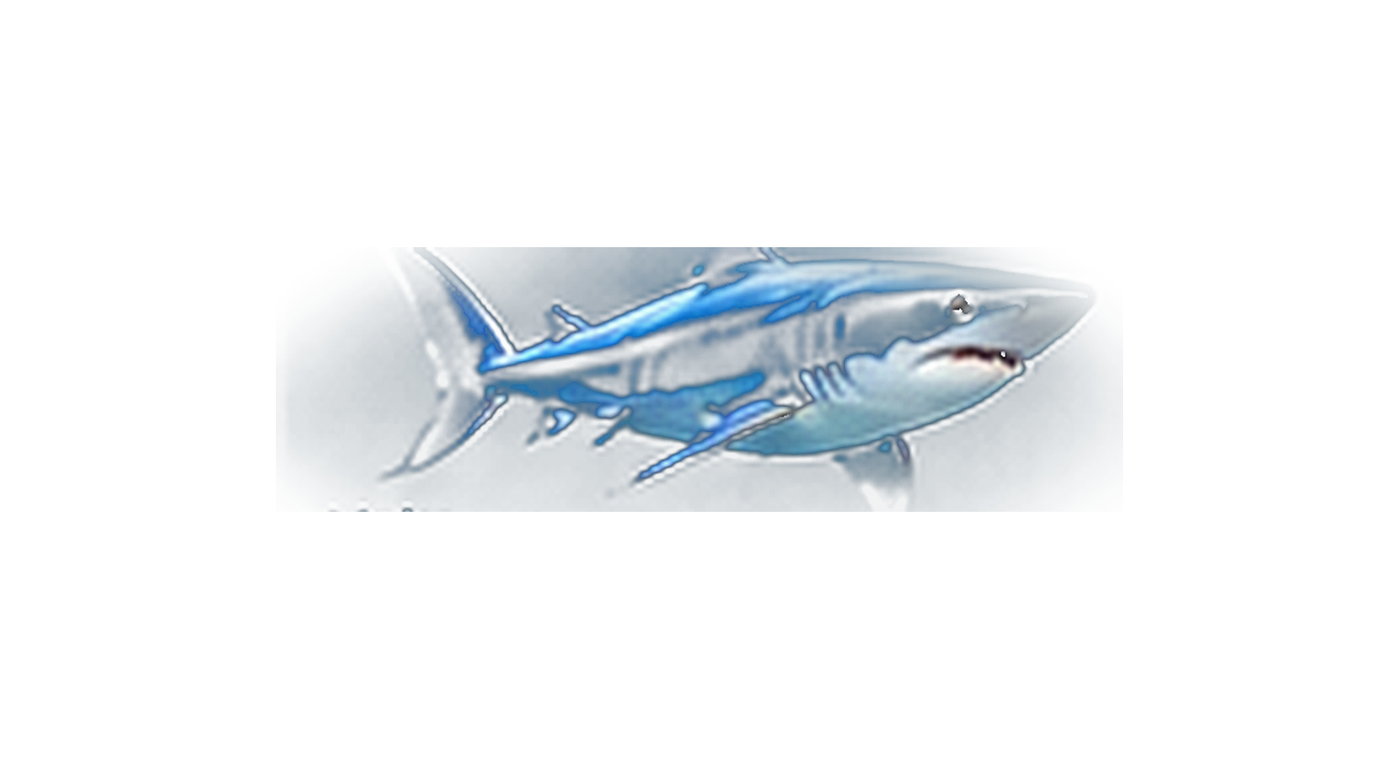
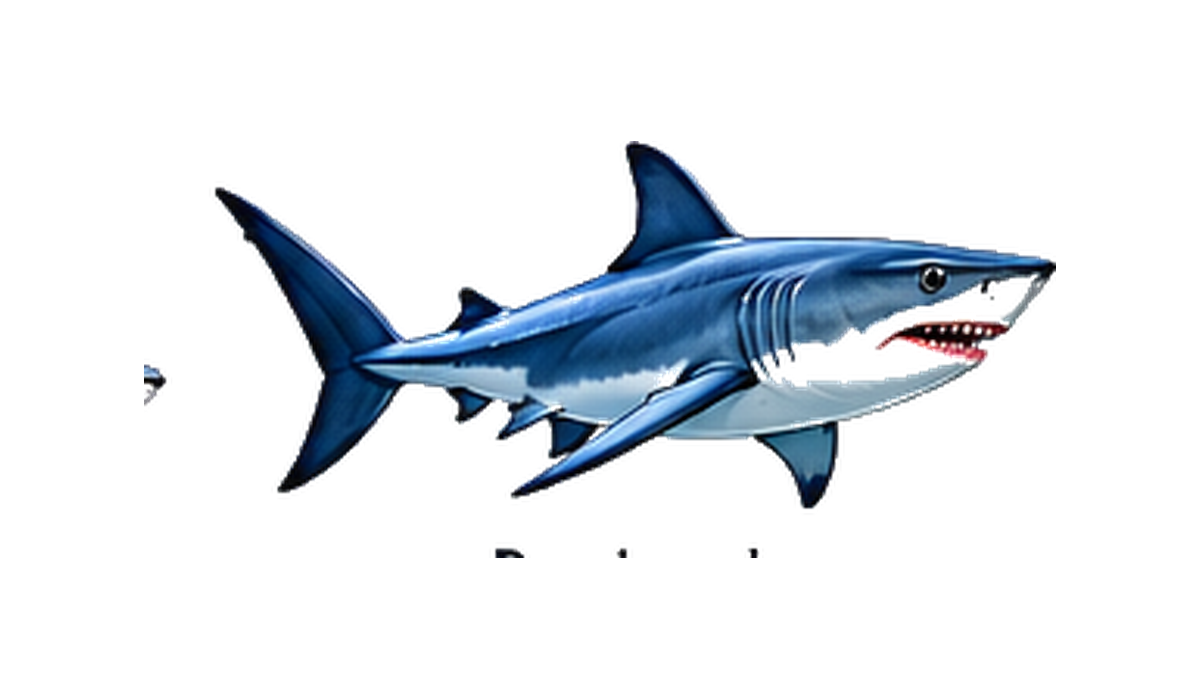
Add files via upload

diff --git a/app.js b/app.js
@@ -1,6 +1,6 @@
 function v7AquariumMood(){let h=new Date().getHours(),f=h>=7&&h<18?"aquarium-day.webp":h>=18&&h<21?"aquarium-evening.webp":"aquarium-night.webp";document.documentElement.style.setProperty("--aquarium-bg",`url("${f}")`)}v7AquariumMood();const SHARKS=[{"id": "grey", "name": "Requin gris", "rarity": "Commun", "cost": 0, "unlock": "Départ", "img": "shark-grey.png"}, {"id": "blacktip", "name": "Requin pointe noire", "rarity": "Commun", "cost": 350, "unlock": "Boutique", "img": "shark-blacktip.png"}, {"id": "whitetip", "name": "Requin pointe blanche", "rarity": "Commun", "cost": 450, "unlock": "Boutique", "img": "shark-whitetip.png"}, {"id": "blue", "name": "Requin bleu", "rarity": "Commun", "cost": 600, "unlock": "Boutique", "img": "shark-blue.png"}, {"id": "nurse", "name": "Requin nourrice", "rarity": "Commun", "cost": 700, "unlock": "Boutique", "img": "shark-nurse.png"}, {"id": "lemon", "name": "Requin citron", "rarity": "Commun", "cost": 800, "unlock": "Boutique", "img": "shark-lemon.png"}, {"id": "reef", "name": "Requin corail", "rarity": "Commun", "cost": 900, "unlock": "Boutique", "img": "shark-reef.png"}, {"id": "zebra", "name": "Requin zèbre", "rarity": "Rare", "cost": 1400, "unlock": "10 activités", "img": "shark-zebra.png"}, {"id": "thresher", "name": "Requin-renard", "rarity": "Rare", "cost": 1800, "unlock": "25 activités", "img": "shark-thresher.png"}, {"id": "mako", "name": "Requin mako", "rarity": "Rare", "cost": 2200, "unlock": "Niveau 10", "img": "shark-mako.png"}, {"id": "bull", "name": "Requin bouledogue", "rarity": "Rare", "cost": 2600, "unlock": "Boutique", "img": "shark-bull.png"}, {"id": "hammer", "name": "Requin marteau", "rarity": "Rare", "cost": 3000, "unlock": "10 objectifs atteints", "img": "shark-hammer.png"}, {"id": "wobbegong", "name": "Requin-tapis", "rarity": "Rare", "cost": 3200, "unlock": "Boutique", "img": "shark-wobbegong.png"}, {"id": "saw", "name": "Requin-scie", "rarity": "Rare", "cost": 3400, "unlock": "Boutique", "img": "shark-saw.png"}, {"id": "goblin", "name": "Requin-lutin", "rarity": "Épique", "cost": 5000, "unlock": "50 activités", "img": "shark-goblin.png"}, {"id": "frilled", "name": "Requin-lézard", "rarity": "Épique", "cost": 5500, "unlock": "Boutique", "img": "shark-frilled.png"}, {"id": "tiger", "name": "Requin tigre", "rarity": "Épique", "cost": 6000, "unlock": "Niveau 20", "img": "shark-tiger.png"}, {"id": "greenland", "name": "Requin du Groenland", "rarity": "Épique", "cost": 6500, "unlock": "100 activités", "img": "shark-greenland.png"}, {"id": "sixgill", "name": "Requin griset", "rarity": "Épique", "cost": 7000, "unlock": "Boutique", "img": "shark-sixgill.png"}, {"id": "angel", "name": "Requin ange", "rarity": "Épique", "cost": 7200, "unlock": "Boutique", "img": "shark-angel.png"}, {"id": "great-hammer", "name": "Grand marteau", "rarity": "Légendaire", "cost": 10000, "unlock": "Niveau 30", "img": "shark-great-hammer.png"}, {"id": "great-white", "name": "Grand requin blanc", "rarity": "Légendaire", "cost": 12000, "unlock": "Niveau 40", "img": "shark-great-white.png"}, {"id": "basking", "name": "Requin pèlerin", "rarity": "Légendaire", "cost": 14000, "unlock": "200 activités", "img": "shark-basking.png"}, {"id": "whale", "name": "Requin-baleine", "rarity": "Légendaire", "cost": 16000, "unlock": "Niveau 50", "img": "shark-whale.png"}, {"id": "megalodon", "name": "Mégalodon", "rarity": "Mythique", "cost": 25000, "unlock": "Collection ultime", "img": "shark-megalodon.png"}];const DECORS=[{"id": "seaweed", "name": "Petite algue", "kind": "plante", "rarity": "Commun", "cost": 30, "img": "decor-seaweed.png"}, {"id": "kelp", "name": "Grande algue", "kind": "plante", "rarity": "Commun", "cost": 80, "img": "decor-kelp.png"}, {"id": "coral-red", "name": "Corail rouge", "kind": "corail", "rarity": "Commun", "cost": 120, "img": "decor-coral-red.png"}, {"id": "anemone", "name": "Anémone", "kind": "corail", "rarity": "Rare", "cost": 150, "img": "decor-anemone.png"}, {"id": "rock", "name": "Rocher volcanique", "kind": "rocher", "rarity": "Rare", "cost": 200, "img": "decor-rock.png"}, {"id": "shell", "name": "Coquillage", "kind": "special", "rarity": "Commun", "cost": 40, "img": "decor-shell.png"}, {"id": "wreck", "name": "Épave ancienne", "kind": "special", "rarity": "Épique", "cost": 800, "img": "decor-wreck.png"}, {"id": "statue", "name": "Statue engloutie", "kind": "special", "rarity": "Épique", "cost": 1200, "img": "decor-statue.png"}, {"id": "chest", "name": "Coffre au trésor", "kind": "special", "rarity": "Légendaire", "cost": 1500, "img": "decor-chest.png"}, {"id": "jelly", "name": "Méduse lumineuse", "kind": "animal", "rarity": "Épique", "cost": 900, "img": "decor-jelly.png"}];const $=s=>document.querySelector(s),$$=s=>[...document.querySelectorAll(s)],DAY=86400000,EM={sport:"🏃",maison:"🧹",sante:"❤",perso:"🌱"};const iso=d=>{d=new Date(d);return `${d.getFullYear()}-${String(d.getMonth()+1).padStart(2,"0")}-${String(d.getDate()).padStart(2,"0")}`},today=()=>iso(new Date());
-const blank=()=>({version:"9.0",xp:0,teeth:100,goals:[],activities:[],ownedSharks:["grey"],activeShark:"grey",aquariumSharks:["grey"],inventory:{seaweed:3,kelp:1,"coral-red":2,rock:2,shell:2},placed:[{id:"p1",decor:"seaweed",x:14,y:82},{id:"p2",decor:"rock",x:38,y:88},{id:"p3",decor:"coral-red",x:72,y:83},{id:"p4",decor:"shell",x:87,y:91}],tutorial:false});let old=JSON.parse(localStorage.getItem("sharkHabitsV811")||"null")||JSON.parse(localStorage.getItem("sharkHabitsV81")||"null")||JSON.parse(localStorage.getItem("sharkHabitsV8")||"null")||JSON.parse(localStorage.getItem("sharkHabitsV7")||"null")||JSON.parse(localStorage.getItem("sharkHabitsV6")||"null")||JSON.parse(localStorage.getItem("sharkHabitsV5")||"null"),data=JSON.parse(localStorage.getItem("sharkHabitsV9")||"null")||blank();if(old&&!localStorage.getItem("sharkHabitsV9")){data={...blank(),...old,version:"9.0"}}let trackTab="today",rar="all",shopMode="decor",selectedDecor=null,selectedPlaced=null,history=[];
-function save(){localStorage.setItem("sharkHabitsV9",JSON.stringify(data))}function level(){return Math.floor(data.xp/250)+1}function monday(d=new Date()){d=new Date(d);let n=(d.getDay()+6)%7;d.setHours(0,0,0,0);d.setDate(d.getDate()-n);return d}function bounds(g,d=new Date()){d=new Date(d);let s,e;if(g.repeat==="day"){s=new Date(d);s.setHours(0,0,0,0);e=new Date(s.getTime()+DAY)}else if(g.repeat==="month"){s=new Date(d.getFullYear(),d.getMonth(),1);e=new Date(d.getFullYear(),d.getMonth()+1,1)}else{s=monday(d);e=new Date(s.getTime()+7*DAY)}return[s,e]}function acts(g){return data.activities.filter(a=>a.goal===g.id)}function val(g,d=new Date()){let a=acts(g);if(g.type==="metric"){a.sort((x,y)=>x.date.localeCompare(y.date));return a.length?a[a.length-1].value:(g.baseline||0)}if(["long","once"].includes(g.type))return a.reduce((s,x)=>s+x.value,0);let[s,e]=bounds(g,d);return a.filter(x=>{let q=new Date(x.date+"T12:00");return q>=s&&q<e}).reduce((s,x)=>s+x.value,0)}function pct(g,v=val(g)){if(g.type==="metric"){let t=Math.abs((g.baseline||v)-g.target),d=Math.abs((g.baseline||v)-v);return Math.max(0,Math.min(100,t?d/t*100:100))}return Math.min(100,g.target?v/g.target*100:0)}function achieved(){return data.goals.filter(g=>pct(g)>=100).length}function unlocked(s){let a=data.activities.length,l=level();return data.ownedSharks.includes(s.id)||s.unlock==="Départ"||(s.unlock==="10 activités"&&a>=10)||(s.unlock==="25 activités"&&a>=25)||(s.unlock==="50 activités"&&a>=50)||(s.unlock==="100 activités"&&a>=100)||(s.unlock==="200 activités"&&a>=200)||(s.unlock==="Niveau 10"&&l>=10)||(s.unlock==="Niveau 20"&&l>=20)||(s.unlock==="Niveau 30"&&l>=30)||(s.unlock==="Niveau 40"&&l>=40)||(s.unlock==="Niveau 50"&&l>=50)||(s.unlock==="10 objectifs atteints"&&achieved()>=10)}function syncUnlocks(){SHARKS.forEach(s=>{if(unlocked(s)&&s.unlock!=="Boutique"&&s.unlock!=="Collection ultime"&&!data.ownedSharks.includes(s.id))data.ownedSharks.push(s.id)})}function maxSharks(){return Math.min(5,1+Math.floor(level()/5))}function used(id){return data.placed.filter(p=>p.decor===id).length}function available(id){return Math.max(0,(data.inventory[id]||0)-used(id))}function empty(t,i="🌊"){return `<div class="card empty"><div class="emptyIcon">${i}</div><b>${t}</b></div>`}function goalCard(g,d=new Date()){let v=val(g,d),p=pct(g,v);return `<div class="goalcard"><div class="goalTop"><span class="goalIcon">${EM[g.category]||"🎯"}</span><div class="goalName">${g.name}<div class="muted">${g.repeat==="day"?"Chaque jour":g.repeat==="week"?"Chaque semaine":g.repeat==="month"?"Chaque mois":"Objectif"}</div></div><button class="primary small add" data-id="${g.id}">＋</button></div><div class="progressrow"><span>${+v.toFixed(1)} ${g.unit||""} / ${g.target} ${g.unit||""}</span><b>${Math.round(p)}%</b></div><div class="progress"><i style="width:${p}%"></i></div><div class="actions"><button class="textbtn edit" data-id="${g.id}">Modifier</button><button class="textbtn archive" data-id="${g.id}">${g.archived?"Réactiver":"Archiver"}</button><button class="danger del" data-id="${g.id}">Supprimer</button></div></div>`}
+const blank=()=>({version:"10.0",xp:0,teeth:100,goals:[],activities:[],ownedSharks:["grey"],activeShark:"grey",aquariumSharks:["grey"],inventory:{seaweed:3,kelp:1,"coral-red":2,rock:2,shell:2},placed:[{id:"p1",decor:"seaweed",x:14,y:82},{id:"p2",decor:"rock",x:38,y:88},{id:"p3",decor:"coral-red",x:72,y:83},{id:"p4",decor:"shell",x:87,y:91}],tutorial:false});let old=JSON.parse(localStorage.getItem("sharkHabitsV91")||"null")||JSON.parse(localStorage.getItem("sharkHabitsV9")||"null")||JSON.parse(localStorage.getItem("sharkHabitsV811")||"null")||JSON.parse(localStorage.getItem("sharkHabitsV81")||"null")||JSON.parse(localStorage.getItem("sharkHabitsV8")||"null")||JSON.parse(localStorage.getItem("sharkHabitsV7")||"null")||JSON.parse(localStorage.getItem("sharkHabitsV6")||"null")||JSON.parse(localStorage.getItem("sharkHabitsV5")||"null"),data=JSON.parse(localStorage.getItem("sharkHabitsV10")||"null")||blank();if(old&&!localStorage.getItem("sharkHabitsV10")){data={...blank(),...old,version:"10.0"}}let trackTab="today",rar="all",shopMode="decor",selectedDecor=null,selectedPlaced=null,history=[];
+function save(){localStorage.setItem("sharkHabitsV10",JSON.stringify(data))}function level(){return Math.floor(data.xp/250)+1}function monday(d=new Date()){d=new Date(d);let n=(d.getDay()+6)%7;d.setHours(0,0,0,0);d.setDate(d.getDate()-n);return d}function bounds(g,d=new Date()){d=new Date(d);let s,e;if(g.repeat==="day"){s=new Date(d);s.setHours(0,0,0,0);e=new Date(s.getTime()+DAY)}else if(g.repeat==="month"){s=new Date(d.getFullYear(),d.getMonth(),1);e=new Date(d.getFullYear(),d.getMonth()+1,1)}else{s=monday(d);e=new Date(s.getTime()+7*DAY)}return[s,e]}function acts(g){return data.activities.filter(a=>a.goal===g.id)}function val(g,d=new Date()){let a=acts(g);if(g.type==="metric"){a.sort((x,y)=>x.date.localeCompare(y.date));return a.length?a[a.length-1].value:(g.baseline||0)}if(["long","once"].includes(g.type))return a.reduce((s,x)=>s+x.value,0);let[s,e]=bounds(g,d);return a.filter(x=>{let q=new Date(x.date+"T12:00");return q>=s&&q<e}).reduce((s,x)=>s+x.value,0)}function pct(g,v=val(g)){if(g.type==="metric"){let t=Math.abs((g.baseline||v)-g.target),d=Math.abs((g.baseline||v)-v);return Math.max(0,Math.min(100,t?d/t*100:100))}return Math.min(100,g.target?v/g.target*100:0)}function achieved(){return data.goals.filter(g=>pct(g)>=100).length}function unlocked(s){let a=data.activities.length,l=level();return data.ownedSharks.includes(s.id)||s.unlock==="Départ"||(s.unlock==="10 activités"&&a>=10)||(s.unlock==="25 activités"&&a>=25)||(s.unlock==="50 activités"&&a>=50)||(s.unlock==="100 activités"&&a>=100)||(s.unlock==="200 activités"&&a>=200)||(s.unlock==="Niveau 10"&&l>=10)||(s.unlock==="Niveau 20"&&l>=20)||(s.unlock==="Niveau 30"&&l>=30)||(s.unlock==="Niveau 40"&&l>=40)||(s.unlock==="Niveau 50"&&l>=50)||(s.unlock==="10 objectifs atteints"&&achieved()>=10)}function syncUnlocks(){SHARKS.forEach(s=>{if(unlocked(s)&&s.unlock!=="Boutique"&&s.unlock!=="Collection ultime"&&!data.ownedSharks.includes(s.id))data.ownedSharks.push(s.id)})}function maxSharks(){return Math.min(5,1+Math.floor(level()/5))}function used(id){return data.placed.filter(p=>p.decor===id).length}function available(id){return Math.max(0,(data.inventory[id]||0)-used(id))}function empty(t,i="🌊"){return `<div class="card empty"><div class="emptyIcon">${i}</div><b>${t}</b></div>`}function goalCard(g,d=new Date()){let v=val(g,d),p=pct(g,v);return `<div class="goalcard"><div class="goalTop"><span class="goalIcon">${EM[g.category]||"🎯"}</span><div class="goalName">${g.name}<div class="muted">${g.repeat==="day"?"Chaque jour":g.repeat==="week"?"Chaque semaine":g.repeat==="month"?"Chaque mois":"Objectif"}</div></div><button class="primary small add" data-id="${g.id}">＋</button></div><div class="progressrow"><span>${+v.toFixed(1)} ${g.unit||""} / ${g.target} ${g.unit||""}</span><b>${Math.round(p)}%</b></div><div class="progress"><i style="width:${p}%"></i></div><div class="actions"><button class="textbtn edit" data-id="${g.id}">Modifier</button><button class="textbtn archive" data-id="${g.id}">${g.archived?"Réactiver":"Archiver"}</button><button class="danger del" data-id="${g.id}">Supprimer</button></div></div>`}
 function sprite(s,i,full=false){return `<img class="sharkSprite" src="${s.img}" alt="${s.name}" style="left:${8+(i*22)%65}%;top:${18+(i%3)*22}%;animation-delay:-${i*2}s">`}function decorSprite(p,placed=false){let d=DECORS.find(x=>x.id===p.decor);return d?`<img class="decorSprite ${placed?"placed":""}" data-pid="${p.id}" src="${d.img}" alt="${d.name}" style="left:${p.x}%;top:${p.y}%">`:""}
 function renderOcean(){let ss=data.aquariumSharks.filter(id=>data.ownedSharks.includes(id)).slice(0,maxSharks()).map(id=>SHARKS.find(s=>s.id===id)).filter(Boolean);$("#homeSharks").innerHTML=ss.map((s,i)=>sprite(s,i)).join("");$("#homeDecor").innerHTML=data.placed.slice(0,12).map(p=>decorSprite(p)).join("");$("#aqSharks").innerHTML=ss.map((s,i)=>sprite(s,i,true)).join("");$("#aqDecor").innerHTML=data.placed.map(p=>decorSprite(p,true)).join("");$("#aqLevel").textContent=`Niveau ${level()} · ${ss.length}/${maxSharks()} requins`;renderInventory()}
 function render(){syncUnlocks();save();$("#level").textContent=`Niveau ${level()}`;$("#teeth").textContent=data.teeth;$("#shopTeeth").textContent=data.teeth;renderOcean();let active=data.goals.filter(g=>!g.archived),tod=active.filter(g=>g.repeat==="day"||g.repeat==="week");$("#todayList").innerHTML=tod.map(goalCard).join("")||empty("Rien à suivre aujourd'hui","☀");$("#todayDone").textContent=`${tod.filter(g=>pct(g)>=100).length} / ${tod.length}`;$("#streak").textContent=`${calcStreak()} jour${calcStreak()>1?"s":""}`;renderTracking();renderStats();renderSharks();renderShop();bind()}

diff --git a/sw.js b/sw.js
@@ -1,1 +1,1 @@
-const C='sharkhabits-v9.0.0-full-sharks';const A=["./", "index.html", "style.css", "app.js", "manifest.json", "icon.svg", "aquarium-day.webp", "aquarium-evening.webp", "aquarium-night.webp", "shark-grey.png", "shark-blacktip.png", "shark-whitetip.png", "shark-blue.png", "shark-nurse.png", "shark-lemon.png", "shark-reef.png", "shark-zebra.png", "shark-thresher.png", "shark-mako.png", "shark-bull.png", "shark-hammer.png", "shark-wobbegong.png", "shark-saw.png", "shark-goblin.png", "shark-frilled.png", "shark-tiger.png", "shark-greenland.png", "shark-sixgill.png", "shark-angel.png", "shark-great-hammer.png", "shark-great-white.png", "shark-basking.png", "shark-whale.png", "shark-megalodon.png", "decor-seaweed.png", "decor-kelp.png", "decor-coral-red.png", "decor-anemone.png", "decor-rock.png", "decor-shell.png", "decor-wreck.png", "decor-statue.png", "decor-chest.png", "decor-jelly.png"];self.addEventListener('install',e=>e.waitUntil(caches.open(C).then(c=>c.addAll(A)).then(()=>self.skipWaiting())));self.addEventListener('activate',e=>e.waitUntil(caches.keys().then(k=>Promise.all(k.filter(x=>x!==C).map(x=>caches.delete(x)))).then(()=>self.clients.claim())));self.addEventListener('fetch',e=>{if(e.request.method!=='GET')return;e.respondWith(fetch(e.request).then(r=>{let q=r.clone();caches.open(C).then(c=>c.put(e.request,q));return r}).catch(()=>caches.match(e.request)))})
+const C='sharkhabits-v10.0.0-unique-sharks';const A=["./", "index.html", "style.css", "app.js", "manifest.json", "icon.svg", "aquarium-day.webp", "aquarium-evening.webp", "aquarium-night.webp", "shark-grey.png", "shark-blacktip.png", "shark-whitetip.png", "shark-blue.png", "shark-nurse.png", "shark-lemon.png", "shark-reef.png", "shark-zebra.png", "shark-thresher.png", "shark-mako.png", "shark-bull.png", "shark-hammer.png", "shark-wobbegong.png", "shark-saw.png", "shark-goblin.png", "shark-frilled.png", "shark-tiger.png", "shark-greenland.png", "shark-sixgill.png", "shark-angel.png", "shark-great-hammer.png", "shark-great-white.png", "shark-basking.png", "shark-whale.png", "shark-megalodon.png", "decor-seaweed.png", "decor-kelp.png", "decor-coral-red.png", "decor-anemone.png", "decor-rock.png", "decor-shell.png", "decor-wreck.png", "decor-statue.png", "decor-chest.png", "decor-jelly.png"];self.addEventListener('install',e=>e.waitUntil(caches.open(C).then(c=>c.addAll(A)).then(()=>self.skipWaiting())));self.addEventListener('activate',e=>e.waitUntil(caches.keys().then(k=>Promise.all(k.filter(x=>x!==C).map(x=>caches.delete(x)))).then(()=>self.clients.claim())));self.addEventListener('fetch',e=>{if(e.request.method!=='GET')return;e.respondWith(fetch(e.request).then(r=>{let q=r.clone();caches.open(C).then(c=>c.put(e.request,q));return r}).catch(()=>caches.match(e.request)))})

diff --git a/index.html b/index.html
@@ -1,4 +1,4 @@
-<!doctype html><html lang="fr"><head><meta charset="utf-8"><meta name="viewport" content="width=device-width,initial-scale=1,viewport-fit=cover"><meta name="theme-color" content="#03283a"><meta name="apple-mobile-web-app-capable" content="yes"><title>SharkHabits V9.0</title><link rel="manifest" href="manifest.json"><link rel="stylesheet" href="style.css"></head><body><header><div><small>SHARKHABITS <b>V9.0</b></small><h1 id="title">Mon océan</h1></div><button id="settings" class="icon">⚙</button></header><main>
+<!doctype html><html lang="fr"><head><meta charset="utf-8"><meta name="viewport" content="width=device-width,initial-scale=1,viewport-fit=cover"><meta name="theme-color" content="#03283a"><meta name="apple-mobile-web-app-capable" content="yes"><title>SharkHabits V10.0</title><link rel="manifest" href="manifest.json"><link rel="stylesheet" href="style.css"></head><body><header><div><small>SHARKHABITS <b>V10.0</b></small><h1 id="title">Mon océan</h1></div><button id="settings" class="icon">⚙</button></header><main>
 <section id="home" class="page active"><div id="oceanCard" class="ocean card"><div class="sunray"></div><div id="homeDecor"></div><div id="homeSharks"></div><div class="oceanHint">↗ Agrandir l'aquarium</div><div class="hud"><b id="level"></b><span>🦷 <b id="teeth"></b></span></div></div><div class="dashboard"><div class="card mini"><span>Aujourd'hui</span><b id="todayDone">0 / 0</b></div><div class="card mini"><span>🔥 Série</span><b id="streak">0 jour</b></div></div><div class="sectionTitle"><h2>Aujourd'hui</h2><button class="primary small" id="quickAdd">＋ Activité</button></div><div id="todayList"></div></section>
 <section id="tracking" class="page"><div class="sectionTitle"><h2>Mon suivi</h2><button class="primary small" id="newGoal">＋ Créer</button></div><div class="chips"><button class="chip trackTab active" data-tab="today">Aujourd'hui</button><button class="chip trackTab" data-tab="week">Semaine</button><button class="chip trackTab" data-tab="all">Tous</button></div><div id="trackingContent"></div><h3>Archivés</h3><div id="archived"></div></section>
 <section id="stats" class="page"><h2>Mes statistiques</h2><div class="statsgrid" id="summary"></div><div class="card"><h3>Progression — 8 semaines</h3><canvas id="weekly" width="700" height="280"></canvas></div><div class="card"><h3>Objectif réel vs trajectoire</h3><select id="analysis"></select><canvas id="goalChart" width="700" height="320"></canvas><div id="insight" class="insight"></div></div></section>

diff --git a/style.css b/style.css
@@ -453,3 +453,20 @@ clip-path:none!important;mask:none!important;padding:0!important;margin:0 auto 5
 #homeSharks .sharkSprite{width:26%!important;height:auto!important}
 #aqSharks .sharkSprite{width:29%!important;height:auto!important}
 @media(max-width:430px){#sharkGrid .item img,#shopGrid .item img{height:116px!important}}
+
+/* V9.1 ASSET RESET — images are complete transparent canvases */
+#sharkGrid .item img,#shopGrid .item img,.manageCheck img,.detailHero img{
+object-fit:contain!important;object-position:center!important;transform:none!important;
+clip-path:none!important;mask:none!important;background:transparent!important;padding:0!important}
+#sharkGrid .item img,#shopGrid .item img{height:135px!important}
+.detailHero img{height:280px!important}
+.sharkSprite{object-fit:contain!important;object-position:center!important;clip-path:none!important;mask:none!important}
+
+/* V10 — UNIQUE FULL SHARK ASSETS */
+#sharkGrid .item img,#shopGrid .item img,.manageCheck img,.detailHero img{
+display:block!important;width:100%!important;max-width:100%!important;
+object-fit:contain!important;object-position:center!important;transform:none!important;
+clip-path:none!important;mask:none!important;background:transparent!important;padding:0!important}
+#sharkGrid .item img,#shopGrid .item img{height:138px!important}
+.detailHero img{height:290px!important}
+.sharkSprite{object-fit:contain!important;object-position:center!important;clip-path:none!important;mask:none!important}

diff --git a/README.md b/README.md
@@ -1,17 +1,2 @@
-# SharkHabits V8.1
-
-V8.1 rapproche l'application de la maquette validée :
-- en-têtes secondaires compacts ;
-- version V8.1 toujours visible ;
-- boutique et Sharkdex plus denses ;
-- visuels plus grands dans les cartes ;
-- cadenas plus discrets ;
-- boutons et filtres simplifiés ;
-- navigation basse plus sobre ;
-- aquarium plein écran conservé ;
-- migration des données V8 vers V8.1.
-
-Tous les fichiers restent directement à la racine de `main`.
-Cache : `sharkhabits-v8.1.0-polish`.
-
-La maquette de référence est `V8.1-visual-reference.png`.
+# SharkHabits V10.0 — Unique Sharks
+V10 intègre directement les nouveaux visuels dans le ZIP GitHub. Les anciens assets V7/V8 ne sont plus utilisés pour les requins. Chaque fichier requin est un canevas 1200×700, sans texte, affiché avec `object-fit: contain`. Version visible : V10.0. Cache : sharkhabits-v10.0.0-unique-sharks.
